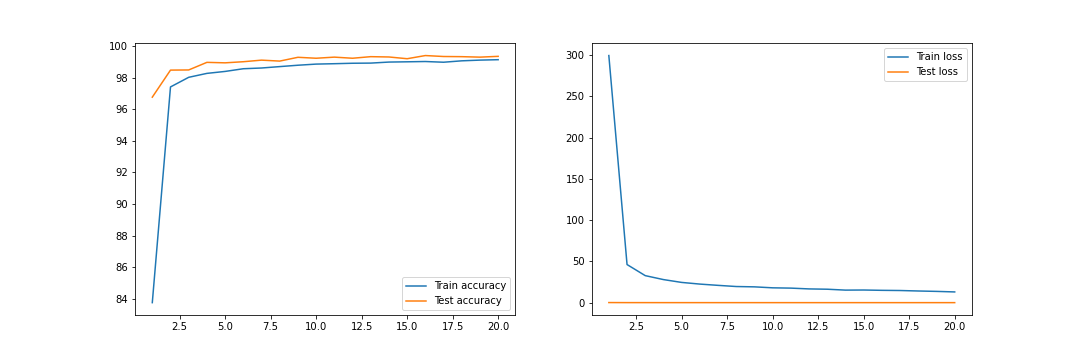
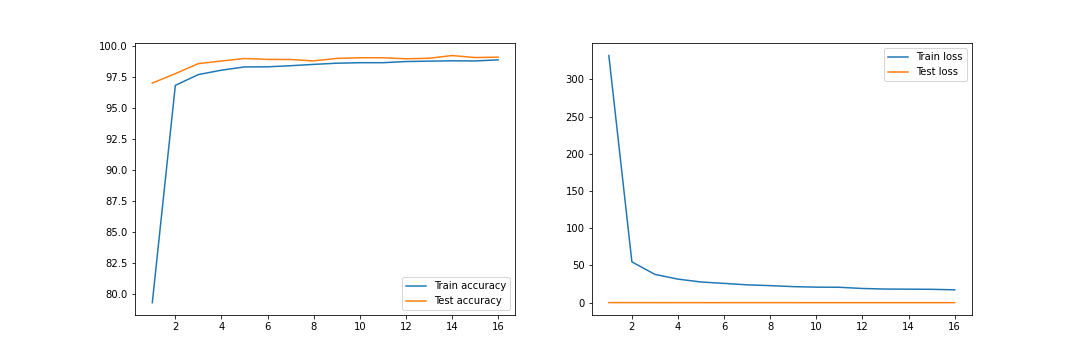
Updating README

diff --git a/S7/models/model_10.py b/S7/models/model_10.py
@@ -51,18 +51,30 @@ class Net_10(mc.Model_Composite):
             nn.Dropout(dropout_val)
         ) # Receptive Field: 18
 
+        self.trans2 = nn.Sequential(
+            nn.MaxPool2d(2, 2),
+            nn.Conv2d(16, 10, 1, padding=0, bias=False),
+            nn.BatchNorm2d(10),
+                nn.ReLU()
+        ) # Receptive Field: 20
+
         self.convblock3 = nn.Sequential(
-            nn.Conv2d(16, 16, 3, padding=0, bias=False),
+            nn.Conv2d(10, 16, 3, padding=1, bias=False),
             nn.BatchNorm2d(16),
                 nn.ReLU(),
+            # nn.Dropout(dropout_val),
+            # nn.Conv2d(16, 16, 3, padding=0, bias=False),
+            # nn.BatchNorm2d(16),
+            #     nn.ReLU(),
             nn.AdaptiveAvgPool2d((1, 1)),
             nn.Conv2d(16, 10, 1, padding=0, bias=False)
-        ) # Receptive Field: 28
+        ) # Receptive Field: 36
 
     def forward(self, x):
         x = self.convblock1(x)
         x = self.trans1(x)
         x = self.convblock2(x)
+        x = self.trans2(x)
         x = self.convblock3(x)
         x = x.view(-1, 10)
         return F.log_softmax(x, dim=-1)

diff --git a/S7/models/model_5.py b/S7/models/model_5.py
@@ -56,7 +56,7 @@ class Net_5(mc.Model_Composite):
                 nn.ReLU(),
             nn.Dropout(0.05),
             nn.Conv2d(10, 10, 7, padding=0, bias=False)
-        ) # Receptive Field: 32
+        ) # Receptive Field: 28
 
     def forward(self, x):
         x = self.pool1(self.convblock1(x))

diff --git a/S7/README.md b/S7/README.md
@@ -1,2 +1,126 @@
-### Model observations
+## Requirement
+- The CNN model should achieve a minimum of 99.4% test accuracy.
+- The model should achieve 99.4% test accuracy at least 2 times in 15 epochs.
+- The model should be trained less than 15 epochs.
+- The maximum number of parameters is 8k.  
 
+## Experiments
+
+### Model 1
+#### TARGET:
+  - Get the setup right
+  - Set data transforms
+  - Set data loaders
+  - Set basic working code
+  - Set basic training and testing loop  
+#### RESULT:
+  - Parameters: 6,379,786
+  - Best training accuracy: 100%
+  - Best testing accuracy: 99.35%
+<img src="images/model_1.png" />  
+
+#### ANALYSIS:
+  - Heavy model for MNIST dataset
+  - Model is overfitting
+
+
+### Model 2
+#### TARGET:
+    - Commit to model architecture
+    - Calculate the RF at the end of each block
+#### RESULT:
+    - Parameters: 194,884
+    - Best training accuracy: 99.45%
+    - Best testing accuracy: 99.09%
+<img src="images/model_2.png" />  
+
+#### ANALYSIS:
+    - The model is still large for MNIST kind of data, but far better than the previous model
+    - The gap between the test and train accuracy is very less compared to previous model
+
+
+### Model 3
+#### TARGET:
+    - Reduce the number of parameters from the previous model without changing the skeleton
+#### RESULT:
+    - Parameters: 10,790
+    - Best training accuracy: 99.21%
+    - Best testing accuracy: 98.77%
+<img src="images/model_3.png" />  
+
+#### ANALYSIS:
+    - The model is far better than model 1 since the gap between training and testing accuracy is less with far less parameters.
+    - Model is overfitting after 11 epochs
+
+
+### Model 4
+#### TARGET:
+    - Add batch normalization to increase train and test accuracy
+#### RESULT:
+    - Parameters: 10,970
+    - Best training accuracy: 99.88%
+    - Best testing accuracy: 99.27%
+<img src="images/model_4.png" />  
+
+#### ANALYSIS:
+    - Improved accuracy compared to previous model
+    - Model starts overfitting
+    - The gap between train and test accuracy is increased
+    - Model will not be able to achieve 99.4% accuracy
+
+
+### Model 5
+#### TARGET:
+    - Add dropout to decrease the gap between train and test accuracy
+    - Reduce overfitting
+#### RESULT:
+    - Parameters: 10,970
+    - Best training accuracy: 99.37%
+    - Best testing accuracy: 99.28%
+<img src="images/model_5.png" />  
+
+#### ANALYSIS:
+    - Certainly, the gap has been reduced between train and test accuracy
+    - Model will not be able to reach 99.4% accuracy as it's oscillating at ~99.2%
+
+
+### Model 6
+#### TARGET:
+    - Replace conv 7x7 by GAP
+#### RESULT:
+    - Parameters: 6,050
+    - Best training accuracy: 98.59%
+    - Best testing accuracy: 99%
+<img src="images/model_6.png" />  
+
+#### ANALYSIS:
+    - Because of the reduction in the number of parameters, the accuracy is reduced for both training and testing
+
+
+### Model 7
+#### TARGET:
+    - Increase the number of parameters
+#### RESULT:
+    - Parameters: 11,994
+    - Best training accuracy: 99.29%
+    - Best testing accuracy: 99.33%
+<img src="images/model_7.png" />  
+
+#### ANALYSIS:
+    - The accuracy is oscillating around 99.2%
+    - The model can never reach 99.4% accuracy
+
+
+### Model 8
+#### TARGET:
+    - Add transition block when RF is 5
+    - Distribute the weight across all the layers
+#### RESULT:
+    - Parameters: 13,828
+    - Best training accuracy: 99.38%
+    - Best testing accuracy: 99.49%
+<img src="images/model_8.png" />  
+
+#### ANALYSIS:
+    - The model is not over-fitting
+    - The model reached 99.4% accuracy 5 times within 15 epochs but with 13k parameters
